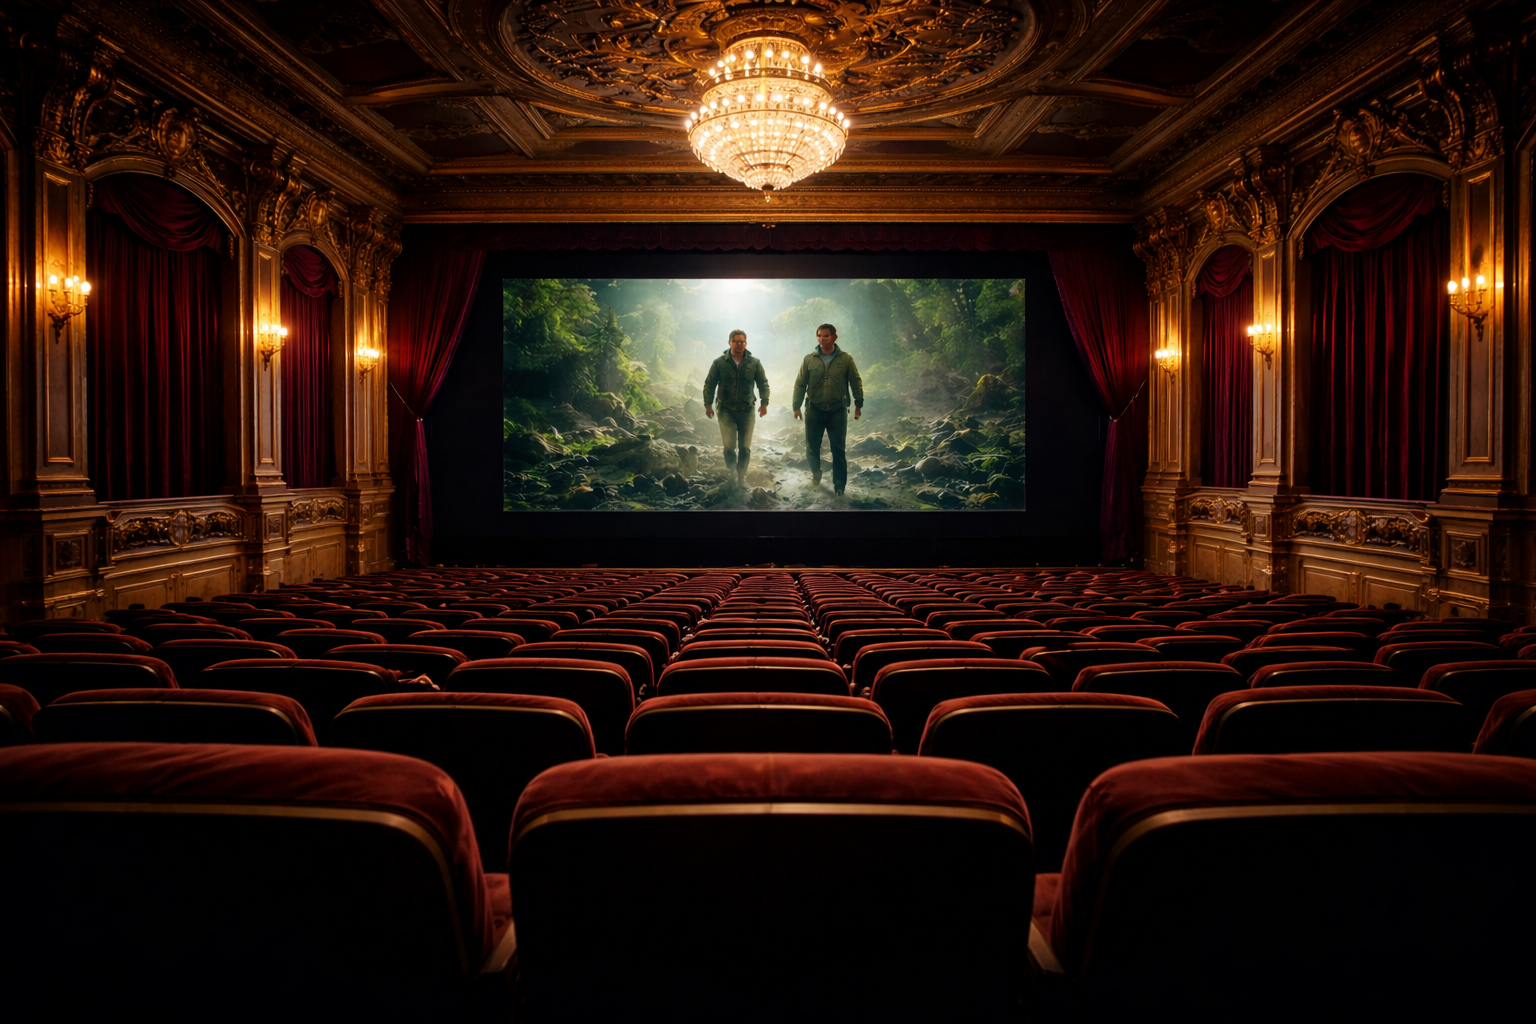
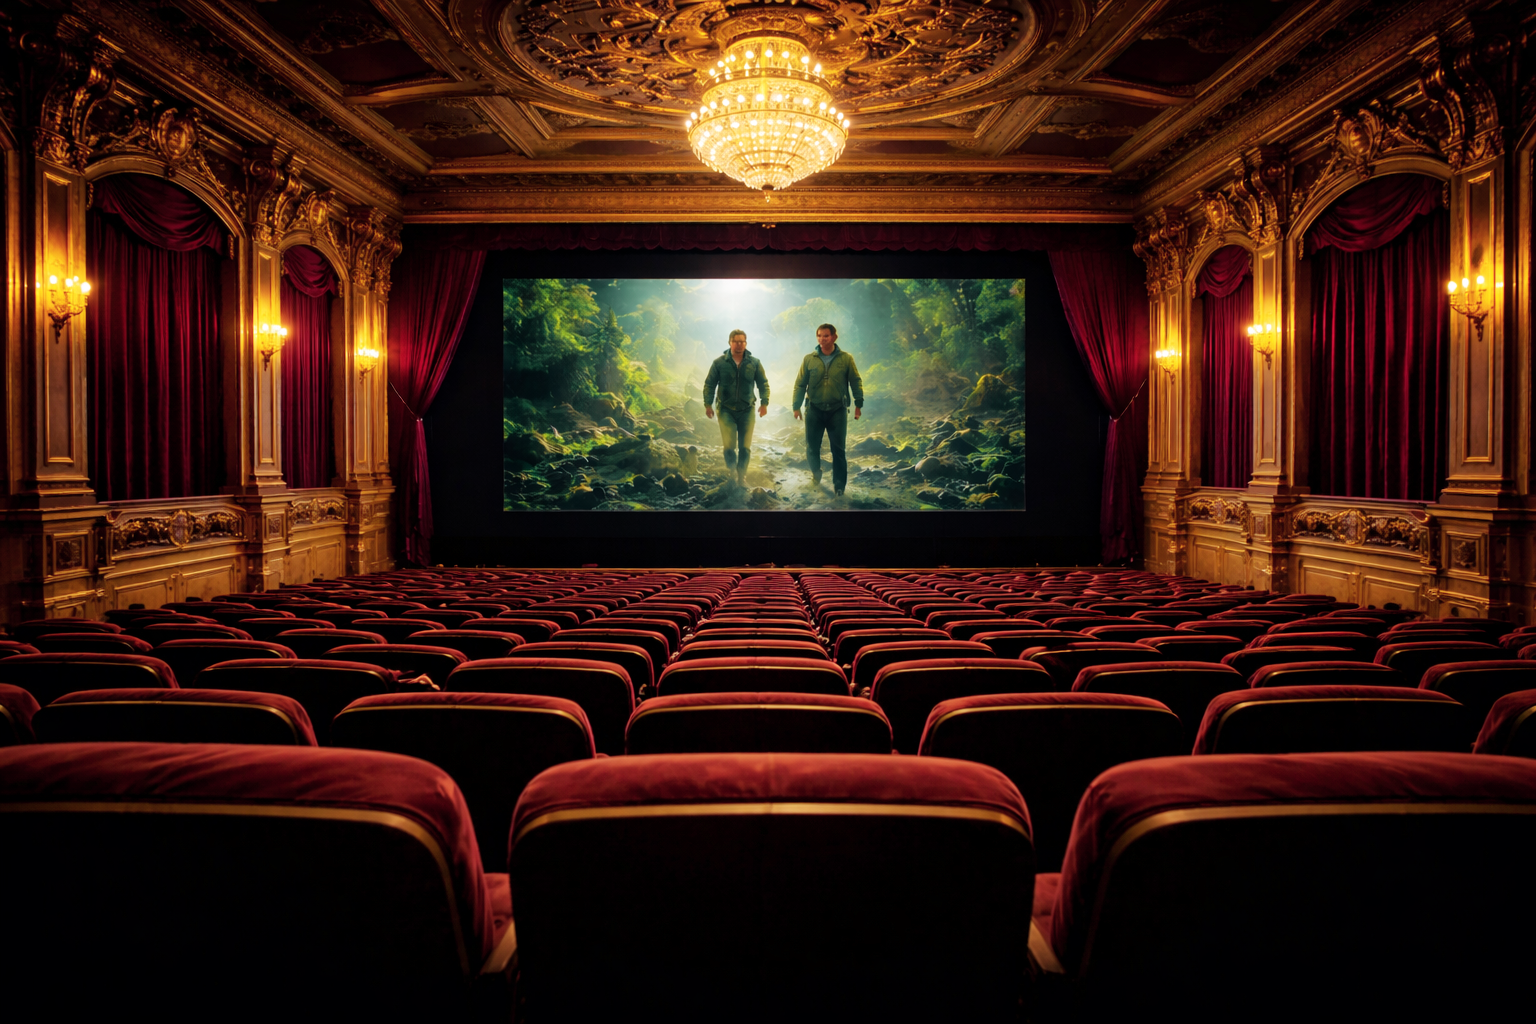
feat: define new color scheme

diff --git a/src/renderer/styles/colors.scss b/src/renderer/styles/colors.scss
@@ -1,21 +1,102 @@
-$background-color: #000000AA;
+@use "sass:color";
+
+$hue-angle: 20;
+
+$hue-red: 0;
+$hue-orange: $hue-angle * 1;
+$hue-gold: $hue-angle * 2;
+$hue-yellow: $hue-angle * 3;
+$hue-lime: $hue-angle * 4;
+$hue-green: $hue-angle * 6;
+$hue-teal: $hue-angle * 8;
+$hue-cyan: $hue-angle * 9.3; // This one needed adjustment to look right.
+$hue-blue: $hue-angle * 10;
+$hue-purple: $hue-angle * 13;
+$hue-magenta: $hue-angle * 15;
+$hue-coral: $hue-angle * 17;
+
+$saturation-core: 50%;
+$lightness-core: 50%;
+$highlight-lightness-adjust: 10%;
+$shadow-lightness-adjust: -10%;
+$gradient-angle: 165deg;
+
+// Some colors needed sat/lightness adjustments to look good in the palette
+$core-red: hsl($hue-red, $saturation-core, $lightness-core);
+$core-orange: hsl($hue-orange, $saturation-core, $lightness-core);
+$core-gold: hsl($hue-gold, $saturation-core, $lightness-core);
+$core-yellow: hsl($hue-yellow, 40%, $lightness-core);
+$core-lime: hsl($hue-lime, $saturation-core, 45%);
+$core-green: hsl($hue-green, $saturation-core, 45%);
+$core-teal: hsl($hue-teal, 40%, 35%);
+$core-cyan: hsl($hue-cyan, 60%, 50%);
+$core-blue: hsl($hue-blue, 100%, 40%);
+$core-purple: hsl($hue-purple, 40%, $lightness-core);
+$core-magenta: hsl($hue-magenta, 40%, $lightness-core);
+$core-coral: hsl($hue-coral, $saturation-core, $lightness-core);
+
+@function make-highlight-color($core-color) {
+  @return color.adjust($core-color, $lightness: $highlight-lightness-adjust);
+}
+
+@function make-shadow-color($core-color) {
+  @return color.adjust($core-color, $lightness: $shadow-lightness-adjust);
+}
+
+@function make-gradient($core-color) {
+  $highlight-color: make-highlight-color($core-color);
+  $shadow-color: make-shadow-color($core-color);
+  @return linear-gradient($gradient-angle, $highlight-color 0%, $core-color 50%, $shadow-color 100%);
+}
+
+/* Original colors, before "Enchanted Theater" palette update */
+$background-color: #000000BB;
 $text-color: #e0e0e0;
 
-$primary-color: #007acc;
-$success-color: #28a745;
-$error-color: #d13438;
+$primary-color: $core-gold;
+$action-color: $core-gold;
+$success-color: $core-green;
+$error-color: $core-red;
 $danger-color: $error-color;
-$warning-color: #ffc107;
-$info-color: #17a2b8;
+$warning-color: $core-yellow;
+$info-color: $core-blue;
 
-$container-background: #2d2d2daa;
+$container-background: color.change(color.to-space($core-blue, rgb), $alpha: 0.07);
 $container-border: #404040;
 $form-background: #2d2d2d;
 $form-border: #404040;
 $input-background: #1e1e1e;
 $input-border: #505050;
 
-
 $shadow-color-base: black;
 $shadow-opacity: 0.5;
 $shadow-color: rgba($shadow-color-base, $shadow-opacity);
+
+:root {
+  /* Core Brand Colors */
+  --core-red: #{$core-red};
+  --core-orange: #{$core-orange};
+  --core-gold: #{$core-gold};
+  --core-yellow: #{$core-yellow};
+  --core-lime: #{$core-lime};
+  --core-green: #{$core-green};
+  --core-teal: #{$core-teal};
+  --core-cyan: #{$core-cyan};
+  --core-blue: #{$core-blue};
+  --core-purple: #{$core-purple};
+  --core-magenta: #{$core-magenta};
+  --core-coral: #{$core-coral};
+
+  --gradient-red: #{make-gradient($core-red)};
+  --gradient-orange: #{make-gradient($core-orange)};
+  --gradient-gold: #{make-gradient($core-gold)};
+  --gradient-yellow: #{make-gradient($core-yellow)};
+  --gradient-lime: #{make-gradient($core-lime)};
+  --gradient-green: #{make-gradient($core-green)};
+  --gradient-teal: #{make-gradient($core-teal)};
+  --gradient-cyan: #{make-gradient($core-cyan)};
+  --gradient-blue: #{make-gradient($core-blue)};
+  --gradient-purple: #{make-gradient($core-purple)};
+  --gradient-magenta: #{make-gradient($core-magenta)};
+  --gradient-coral: #{make-gradient($core-coral)};
+}